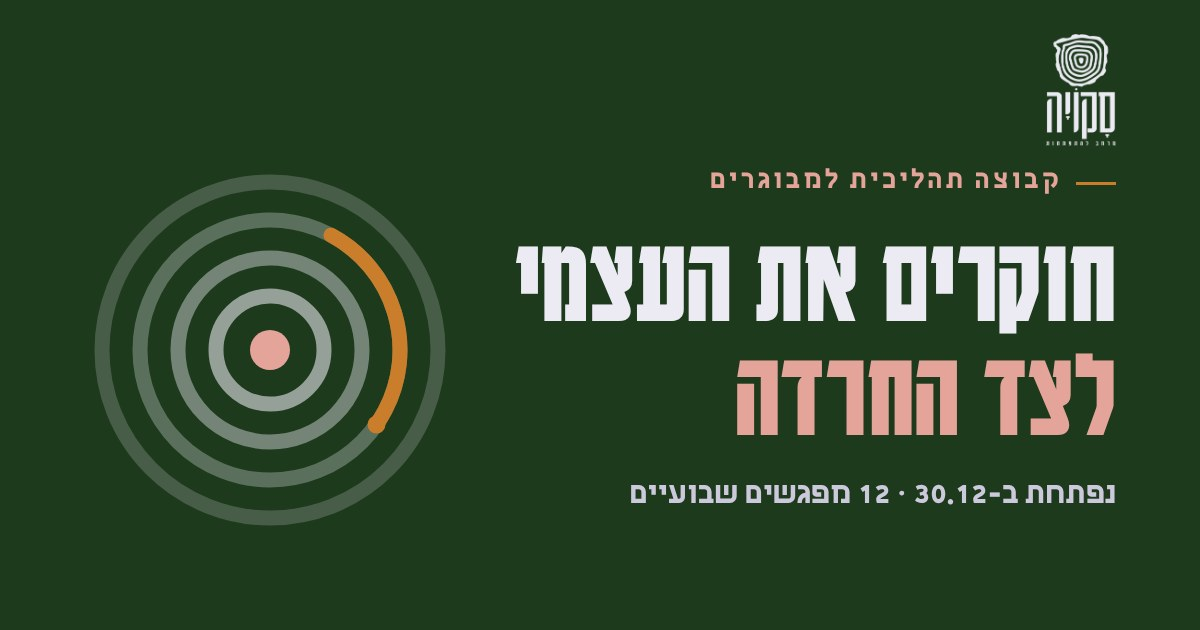
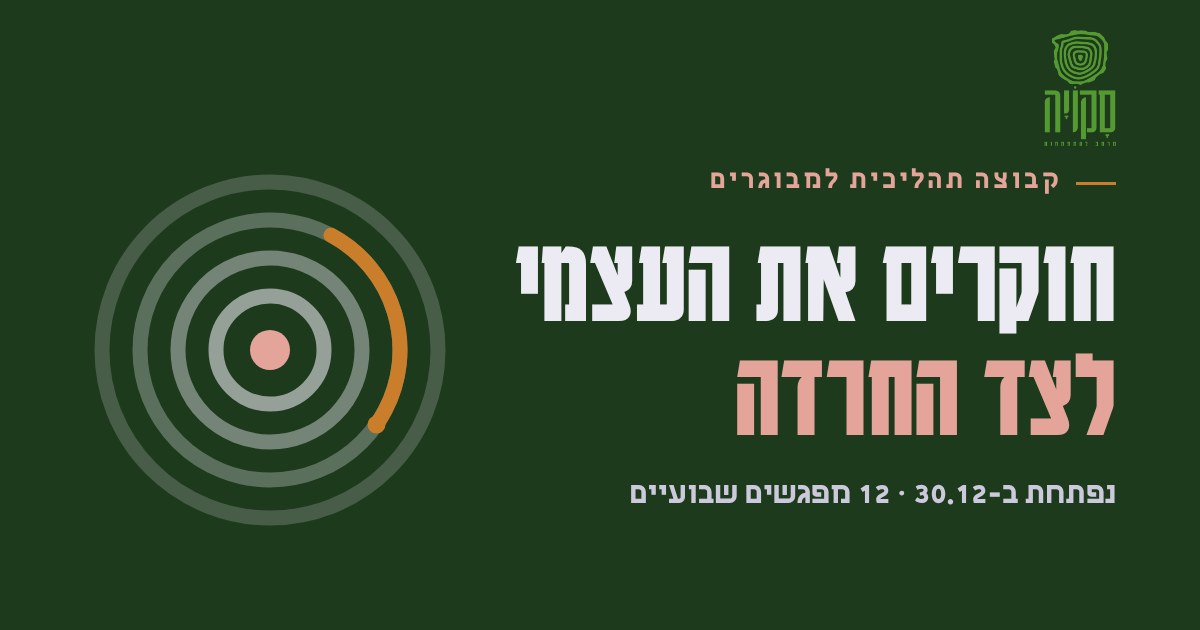
עמוד הקבוצה: שימוש בלוגו הרשמי של סקויה
Claude-Session: https://claude.ai/code/session_01V3Nb3vbVLKUEUKRVbkNgJN

Changed region(s): [[0.8633, 0.0302, 0.9558, 0.2413]]

diff --git a/social-anxiety-group.html b/social-anxiety-group.html
@@ -59,7 +59,7 @@ h2{font-size:clamp(2.5rem,5vw,3.9rem);margin-top:12px;text-wrap:balance}
 /* פס עליון */
 .top{position:absolute;top:0;right:0;left:0;z-index:5}
 .top .wrap{display:flex;align-items:center;justify-content:space-between;padding-top:26px;padding-bottom:26px}
-.top img{height:78px;width:auto}
+.top img{height:93px;width:auto}
 .back{display:inline-flex;align-items:center;gap:8px;color:var(--mist-100);text-decoration:none;font-weight:700;font-size:.98rem;padding:10px 18px;border-radius:var(--r-pill);border:1.5px solid rgba(236,235,243,.35);transition:background var(--dur) var(--ease),color var(--dur) var(--ease)}
 .back:hover{background:var(--mist-100);color:var(--pine)}
 .back .ico{width:16px;height:16px}
@@ -191,7 +191,7 @@ section{padding:112px 0}
 
 /* תחתית */
 footer{background:var(--bark);color:rgba(240,203,197,.85);text-align:center;padding:56px 0 48px}
-footer img{height:96px;width:auto;margin:0 auto 20px;opacity:.9}
+footer img{height:112px;width:auto;margin:0 auto 20px}
 .flinks{display:flex;flex-wrap:wrap;gap:8px 26px;justify-content:center;margin-bottom:16px}
 .flinks a{color:var(--blush-200);text-decoration:none;font-size:1rem}.flinks a:hover{color:#fff}
 footer p{font-size:.88rem;color:rgba(229,164,154,.75)}
@@ -209,7 +209,7 @@ footer p{font-size:.88rem;color:rgba(229,164,154,.75)}
 body{font-size:17px;padding-bottom:68px}
 .wrap{padding:0 22px}
 section{padding:76px 0}
-.top img{height:62px}.top .wrap{padding-top:18px;padding-bottom:18px}
+.top img{height:74px}.top .wrap{padding-top:18px;padding-bottom:18px}
 .back{font-size:.9rem;padding:8px 14px}
 .hero-grid{padding-top:112px;padding-bottom:64px;gap:26px}.art{max-width:210px}
 .hero-actions .btn{width:100%}
@@ -245,7 +245,7 @@ html{scroll-behavior:auto}
 
 <header class="top">
 <div class="wrap">
-<a href="https://sakoya-center.com/" aria-label="סקויה, מרחב להתפתחות, לאתר הראשי"><img src="img/logo-mark-light.png" alt="סקויה - מרחב להתפתחות" width="49" height="78"></a>
+<a href="https://sakoya-center.com/" aria-label="סקויה, מרחב להתפתחות, לאתר הראשי"><img src="img/logo-leaf.png" alt="סקויה - מרחב להתפתחות" width="58" height="93"></a>
 <a class="back" href="https://sakoya-center.com/">לאתר סקויה<svg class="ico" viewBox="0 0 24 24" fill="none" stroke="currentColor" stroke-width="2" stroke-linecap="round" stroke-linejoin="round" aria-hidden="true"><path d="M19 12H5"/><path d="m12 19-7-7 7-7"/></svg></a>
 </div>
 </header>
@@ -413,7 +413,7 @@ html{scroll-behavior:auto}
 
 <footer>
 <div class="wrap">
-<a href="https://sakoya-center.com/" aria-label="לאתר סקויה"><img src="img/logo-mark-light.png" alt="סקויה - מרחב להתפתחות" width="60" height="96"></a>
+<a href="https://sakoya-center.com/" aria-label="לאתר סקויה"><img src="img/logo-amber-wide.png" alt="סקויה - מרחב להתפתחות" width="70" height="112"></a>
 <nav class="flinks" aria-label="קישורים">
 <a href="https://sakoya-center.com/">לאתר סקויה</a>
 <a href="https://sakoya-center.com/#groups">כל הקבוצות שלנו</a>
